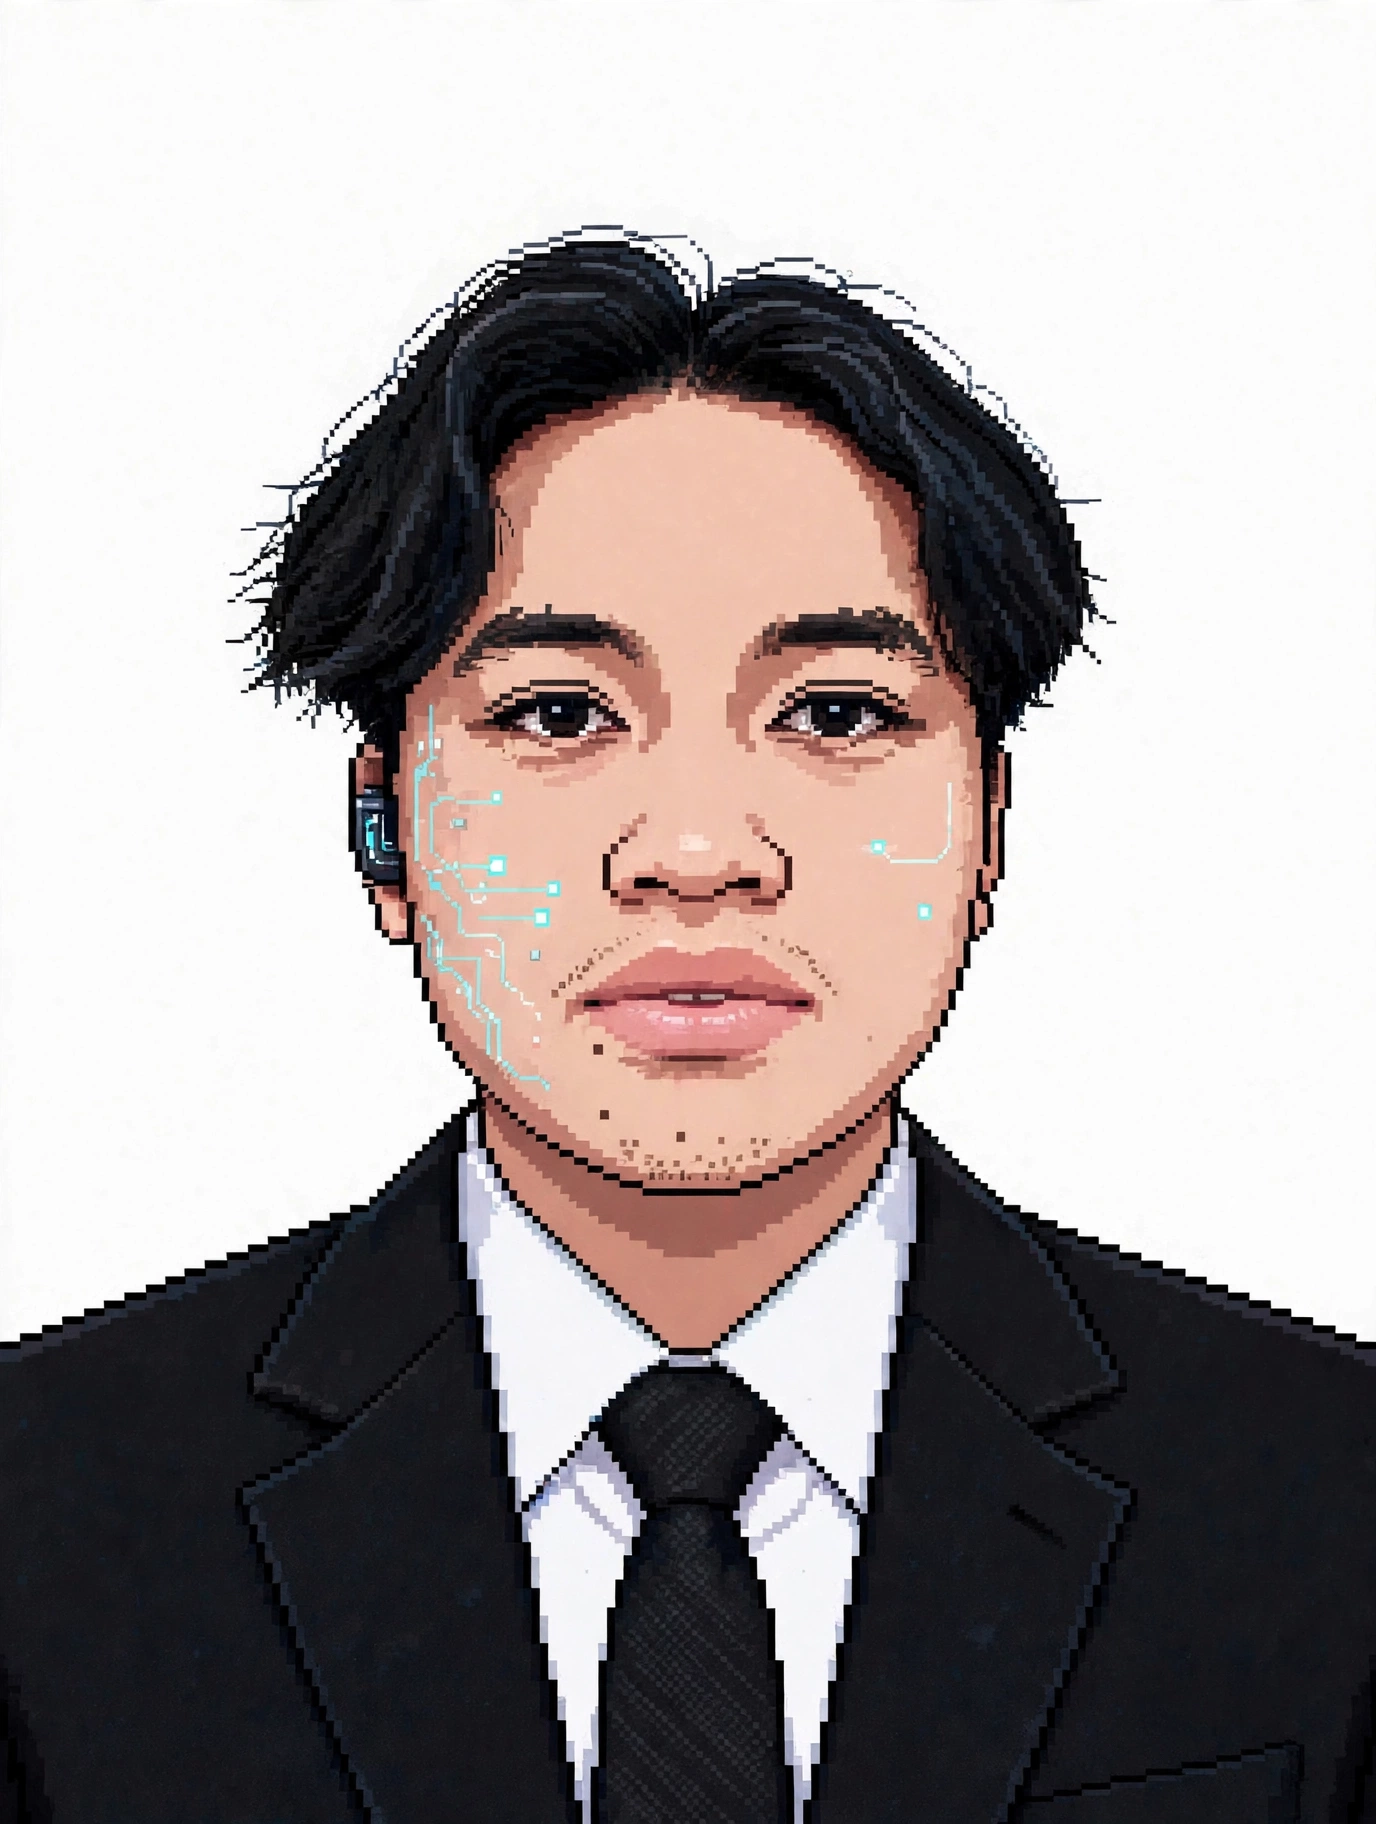
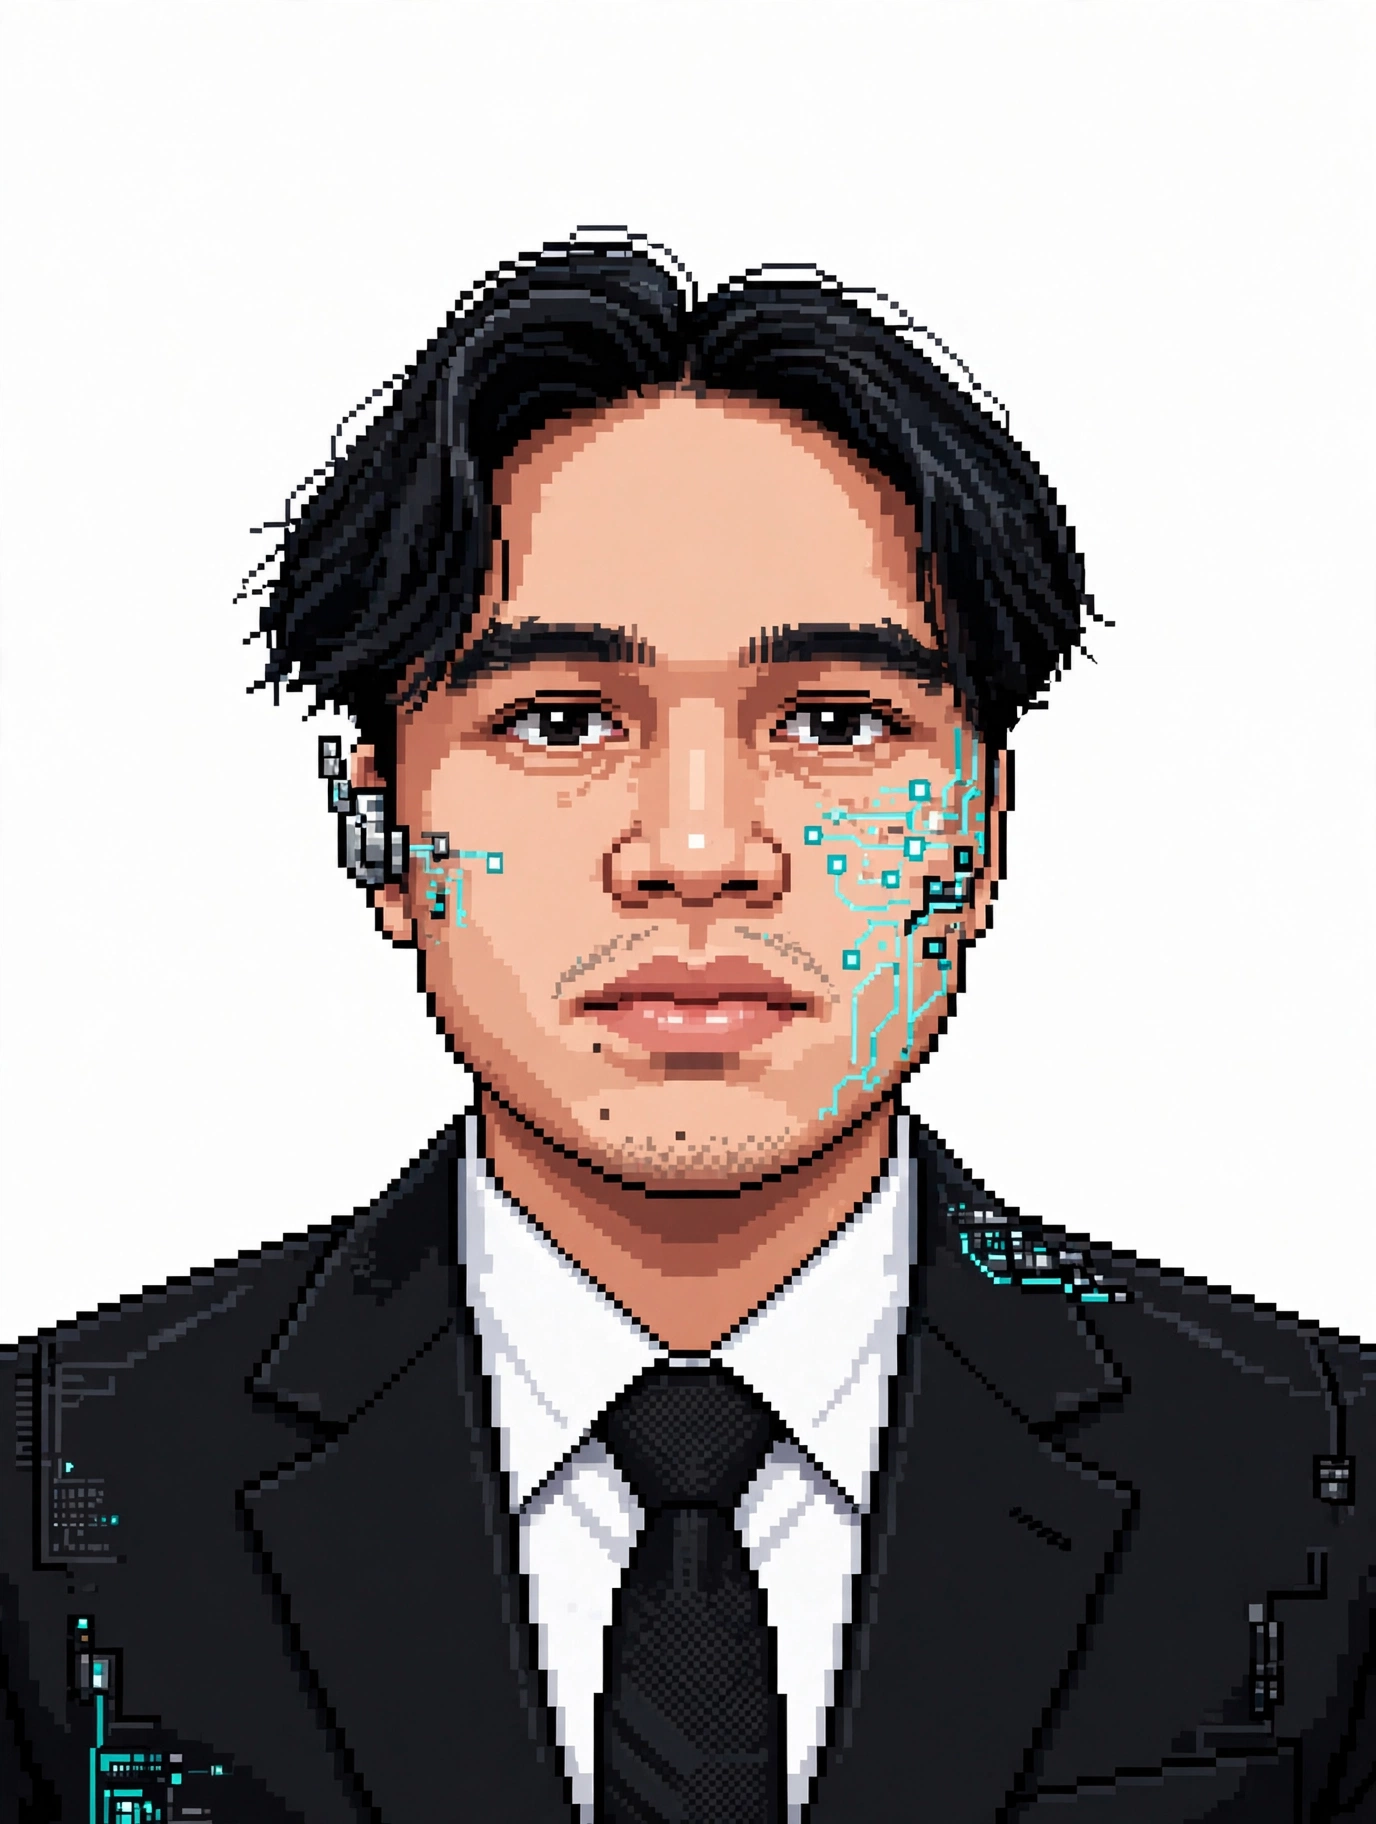
Revert to original pixel robot

diff --git a/lib/bodyHtml.js b/lib/bodyHtml.js
@@ -43,7 +43,7 @@ export const bodyHtml = `
       <div class="window-body inset">
         <div class="about-grid">
           <p class="file-label">INFORMATICS GRADUATE / SELECTED WORK</p>
-          <aside class="about-sidebar"><div class="about-identity"><div class="portrait portrait-idle"><img src="/assets/nopal-formal.png" alt="Nauval Rizky Ramadhan" class="portrait-img portrait-human" /><img src="/assets/nopal-pixelbot.png?v=7" alt="Pixel robot mode" class="portrait-img portrait-robot" /></div><div class="about-identity-copy"><strong>Nauval Rizky Ramadhan</strong><span>Informatics Graduate</span><small>Fullstack · UI/UX · Usability Research</small></div></div><dl class="facts" aria-label="Education and background"><div><dt>Degree</dt><dd>Informatics</dd></div><div><dt>GPA</dt><dd>3.77 / 4.0</dd></div><div><dt>Based</dt><dd>Indonesia</dd></div></dl></aside>
+          <aside class="about-sidebar"><div class="about-identity"><div class="portrait portrait-idle"><img src="/assets/nopal-formal.png" alt="Nauval Rizky Ramadhan" class="portrait-img portrait-human" /><img src="/assets/nopal-pixelbot.png?v=8" alt="Pixel robot mode" class="portrait-img portrait-robot" /></div><div class="about-identity-copy"><strong>Nauval Rizky Ramadhan</strong><span>Informatics Graduate</span><small>Fullstack · UI/UX · Usability Research</small></div></div><dl class="facts" aria-label="Education and background"><div><dt>Degree</dt><dd>Informatics</dd></div><div><dt>GPA</dt><dd>3.77 / 4.0</dd></div><div><dt>Based</dt><dd>Indonesia</dd></div></dl></aside>
           <div class="about-copy">
             <div><h1><span class="h1-name">Nauval Rizky Ramadhan</span></h1><p class="about-intro-full">Fresh Informatics graduate (GPA 3.77/4.0) from Universitas Amikom Purwokerto. I work across the stack &mdash; Laravel and Next.js backends, Flutter mobile apps, C#/.NET desktop tools &mdash; and I don&apos;t stop at shipping: my work is validated with real usability testing, including published SUS research scoring 81.83 across 56 respondents. Eight projects shipped, from e-commerce and news portals to 3D animation and traditional-music preservation.</p><p class="about-intro-compact">Informatics graduate (3.77/4.0) building fullstack web, mobile &amp; desktop apps &mdash; validated with published usability research.</p></div>
             <div class="about-links"><button class="pixel-button bevel" type="button" data-open="projects-window">OPEN PROJECTS</button><button class="pixel-button bevel" type="button" data-open="skills-window" data-skill-tab-open="deck">VIEW SKILLS</button><button class="pixel-button bevel" type="button" data-open="contact-window">CONTACT ME</button></div>
